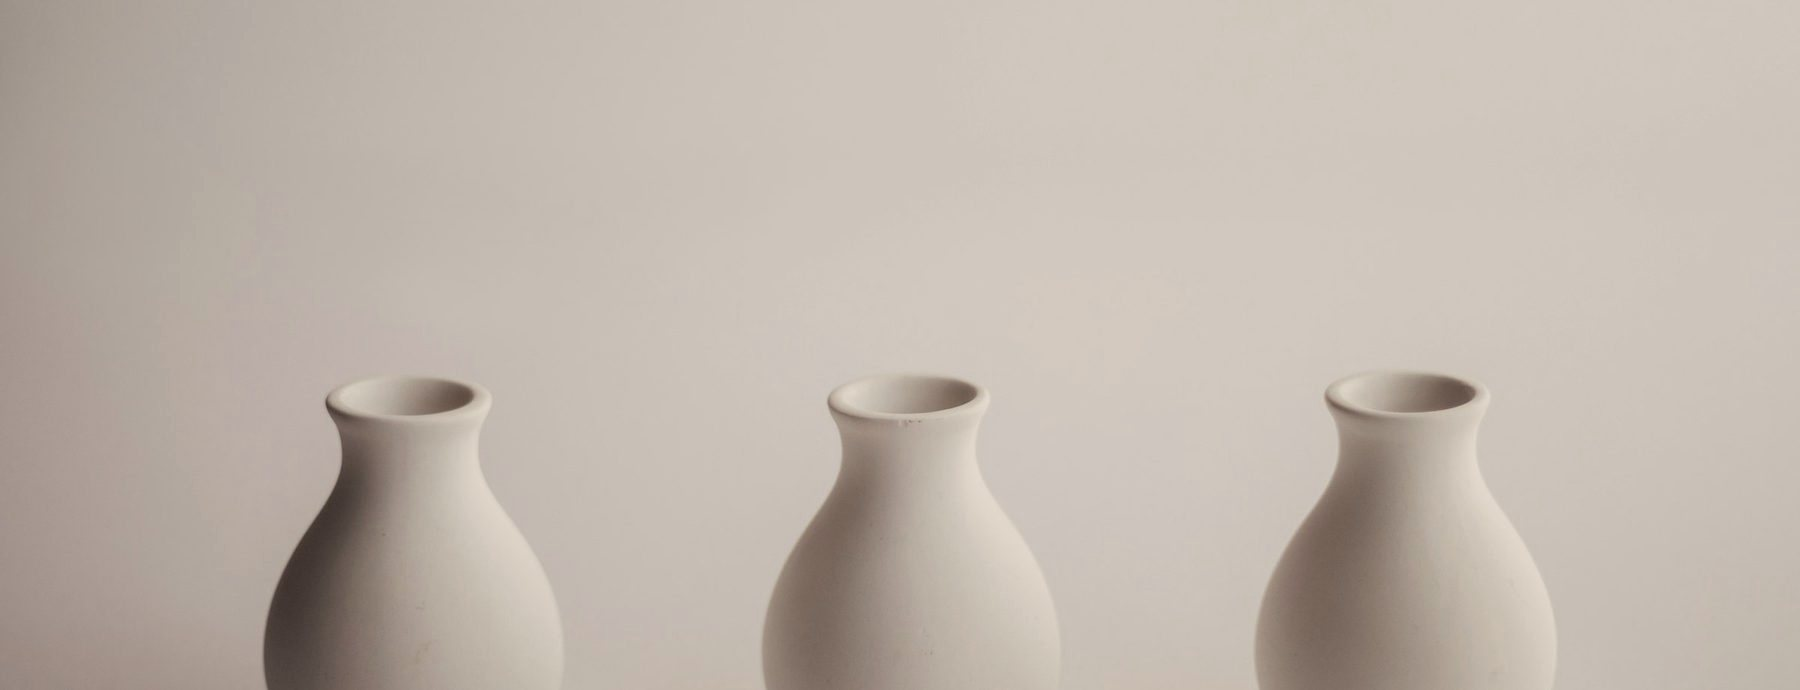
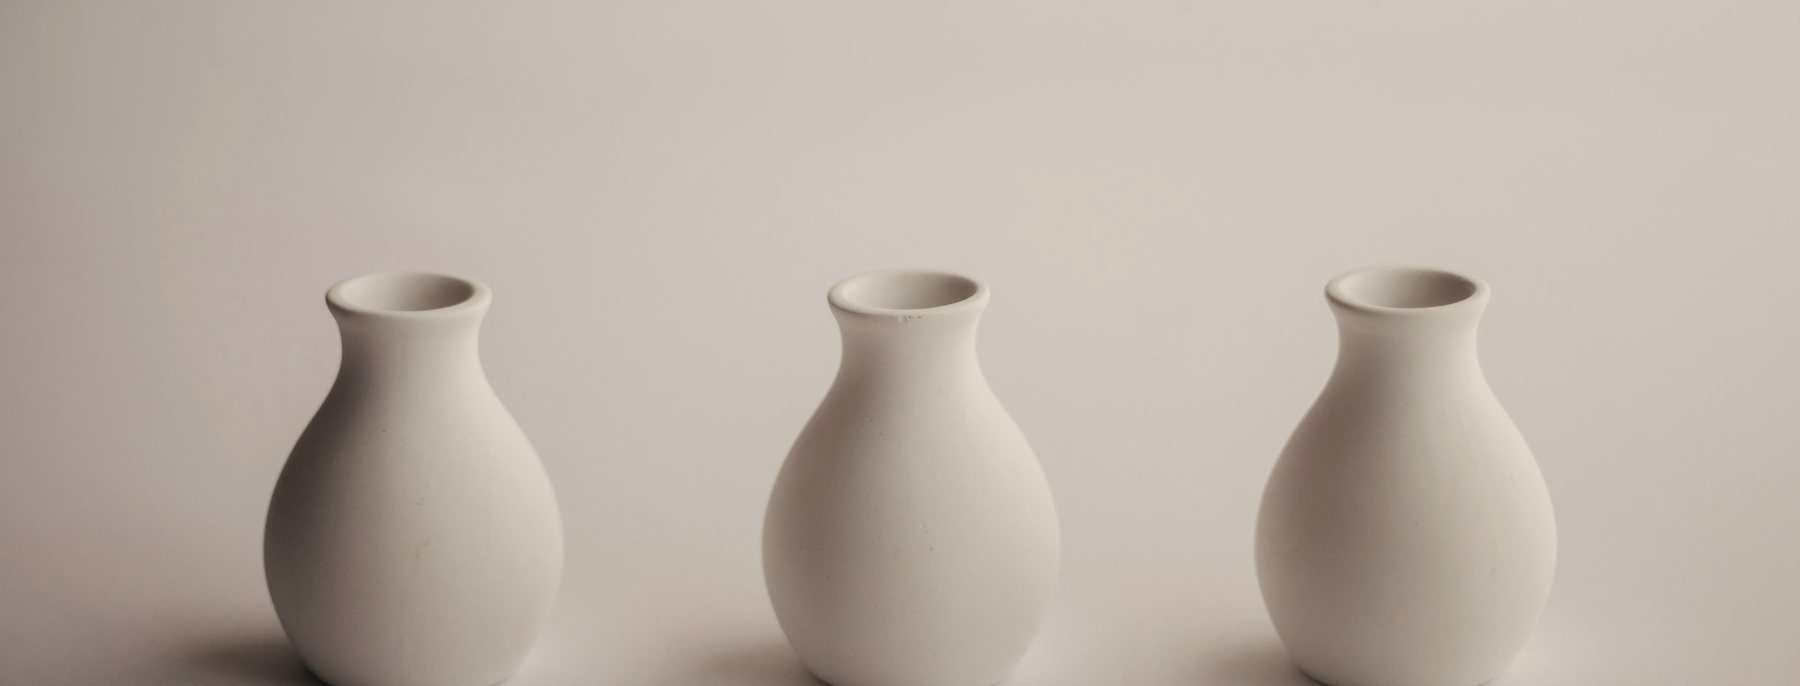
Balance by Bita Astryx: fix rounds in progress (designs 2, 4, 5)
Claude-Session: https://claude.ai/code/session_016gdvFHguwxB5H1KJ8qAj9n

diff --git a/sites/balance-by-bita-astryx/designs/04-garden-script/index.html b/sites/balance-by-bita-astryx/designs/04-garden-script/index.html
@@ -311,7 +311,7 @@ p,li,dd{ text-wrap:pretty; }
 .details dt{ font-size:var(--font-size-sm); font-weight:var(--font-weight-semibold); letter-spacing:var(--tracking-label); text-transform:uppercase; color:var(--color-text-secondary); padding-top:var(--spacing-1); }
 .details dd a{ text-decoration:none; font-weight:var(--font-weight-medium); }
 .contact-img{ align-self:center; }
-.contact-img img{ width:100%; aspect-ratio:1 / 1; object-fit:cover; border-radius:var(--radius-arch-tall); filter:var(--image-tone); }
+.contact-img img{ width:100%; aspect-ratio:1 / 1; object-fit:cover; border-radius:var(--radius-full) var(--radius-full) var(--radius-page) var(--radius-page); filter:var(--image-tone); }
 
 /* ===== waitlist (rose band) ===== */
 .waitlist{ padding-block:var(--spacing-section-sm); }
